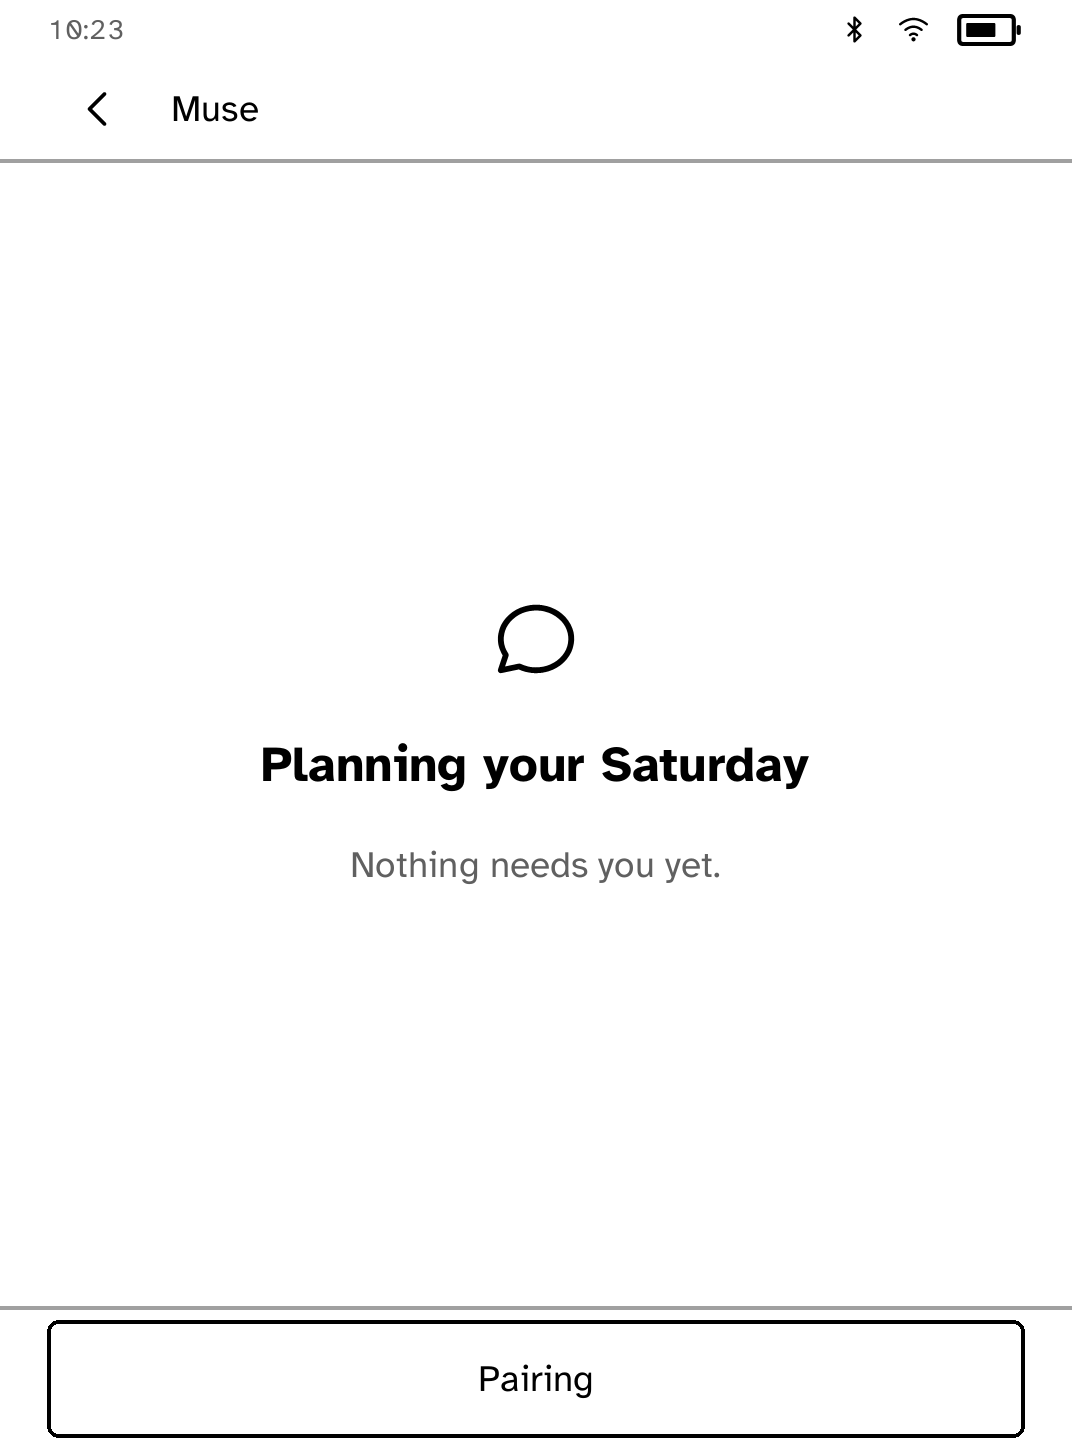
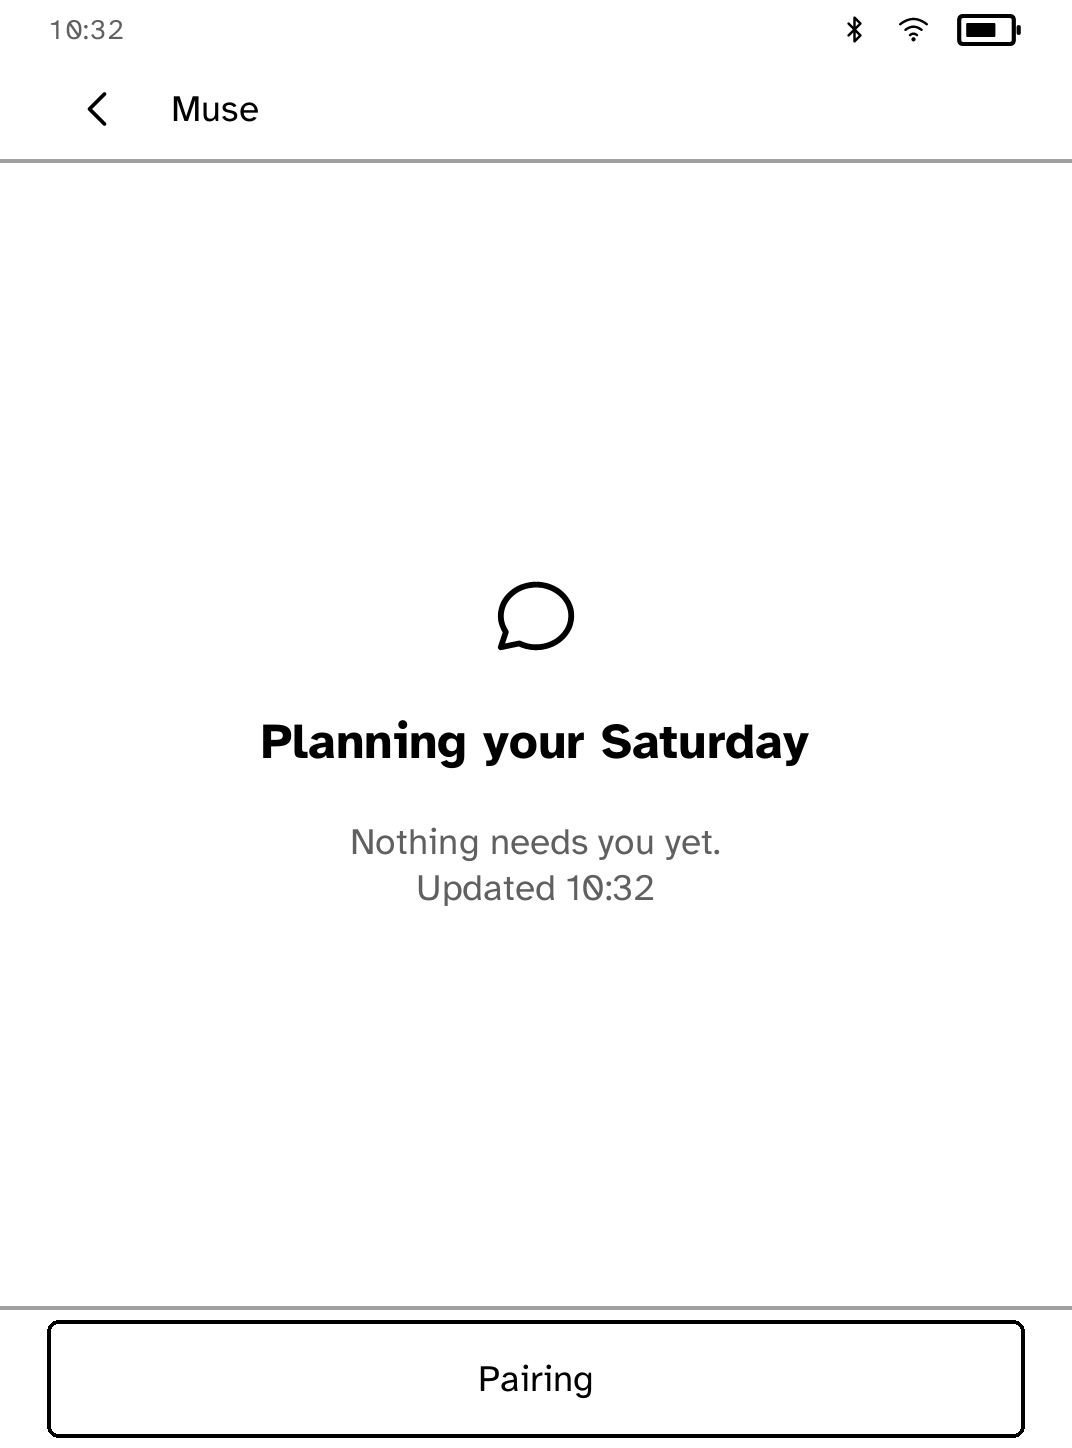
Show when Muse last returned a validated update on the resting face

Changed region(s): [[0.2463, 0.4972, 0.7696, 0.6215], [0.4618, 0.404, 0.5541, 0.4662]]

diff --git a/apps/muse-panel/src/main.rs b/apps/muse-panel/src/main.rs
@@ -71,6 +71,9 @@ struct Panel {
     token: String,
     trouble: Option<String>,
     live: Option<Live>,
+    /// Reader-local hour and minute at which the bridge last returned a reply
+    /// this app validated and drew. Never set from a failed or unreadable poll.
+    updated: Option<(u8, u8)>,
     /// The revision this reader last asked about.
     rev: Option<u64>,
     /// A page or question the reader put away with Back. It stays away until
@@ -280,6 +283,14 @@ impl Panel {
             .live
             .as_ref()
             .map_or(("", ""), |live| (live.line.as_str(), live.detail.as_str()));
+        let stamp = self
+            .updated
+            .map(|(hour, minute)| format!("Updated {hour:02}:{minute:02}"));
+        let detail = match (detail.is_empty(), stamp) {
+            (_, None) => detail.to_owned(),
+            (true, Some(stamp)) => stamp,
+            (false, Some(stamp)) => format!("{detail}\n{stamp}"),
+        };
         let mut screen = ScreenBuilder::new("muse-resting").top_bar(TITLE).splash(
             Some(Glyph::Chat),
             if line.is_empty() {
@@ -493,6 +504,7 @@ impl Panel {
                         self.rev = Some(live.rev);
                         self.dismissed = None;
                         self.page = 0;
+                        self.updated = reader_time();
                         self.live = Some(live);
                         if matches!(
                             self.live.as_ref().map(|live| &live.content),
@@ -1008,6 +1020,17 @@ impl KoboApp for Panel {
     }
 }
 
+/// The reader's local time, at the offset the runtime was started with.
+/// None when the clock is unavailable, so no time is invented.
+fn reader_time() -> Option<(u8, u8)> {
+    use kobo_sdk::clock::{Clock, SystemClock};
+    let minutes = std::env::var("KOBO_UTC_OFFSET_MINUTES")
+        .ok()
+        .and_then(|value| value.parse::<i16>().ok())
+        .unwrap_or(0);
+    SystemClock::new(minutes).ok()?.now().ok()?.hour_minute()
+}
+
 fn main() -> ExitCode {
     match kobo_sdk::run("muse-panel", Panel::default()) {
         Ok(()) => ExitCode::SUCCESS,
@@ -1383,6 +1406,29 @@ mod tests {
         let commands = context.take_commands();
         assert!(painted(&commands).is_some() && slept(&commands).is_some());
         assert!(app.trouble.is_some());
+    }
+
+    #[test]
+    fn the_update_time_is_set_only_by_a_validated_reply() {
+        let (mut app, poll) = paired();
+        let mut context = Context::default();
+        app.on_task(
+            &mut context,
+            poll,
+            TaskOutcome::Failed(TaskError::Unreachable),
+        );
+        assert!(app.updated.is_none());
+        assert!(!format!("{:?}", app.resting()).contains("Updated "));
+
+        let (mut app, poll) = paired();
+        deliver(&mut app, poll, b"not json at all");
+        assert!(app.updated.is_none());
+
+        let (mut app, poll) = paired();
+        deliver(&mut app, poll, SCREEN_STATUS);
+        let (hour, minute) = app.updated.expect("a validated reply stamps the time");
+        assert!(hour < 24 && minute < 60);
+        assert!(format!("{:?}", app.resting()).contains("Updated "));
     }
 
     #[test]
